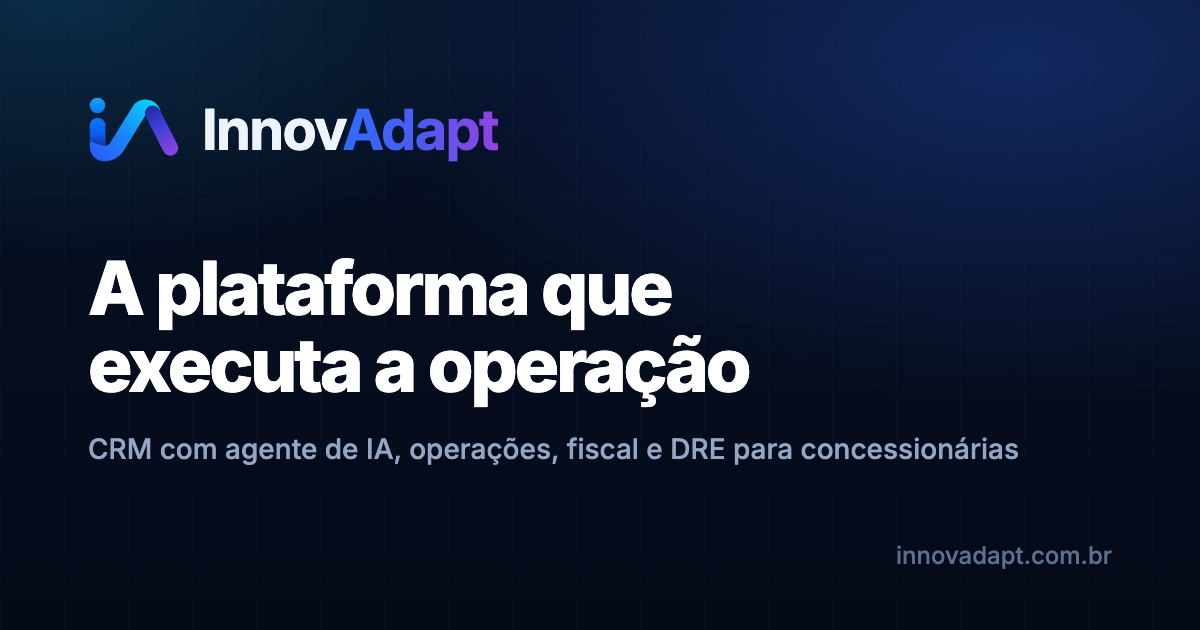
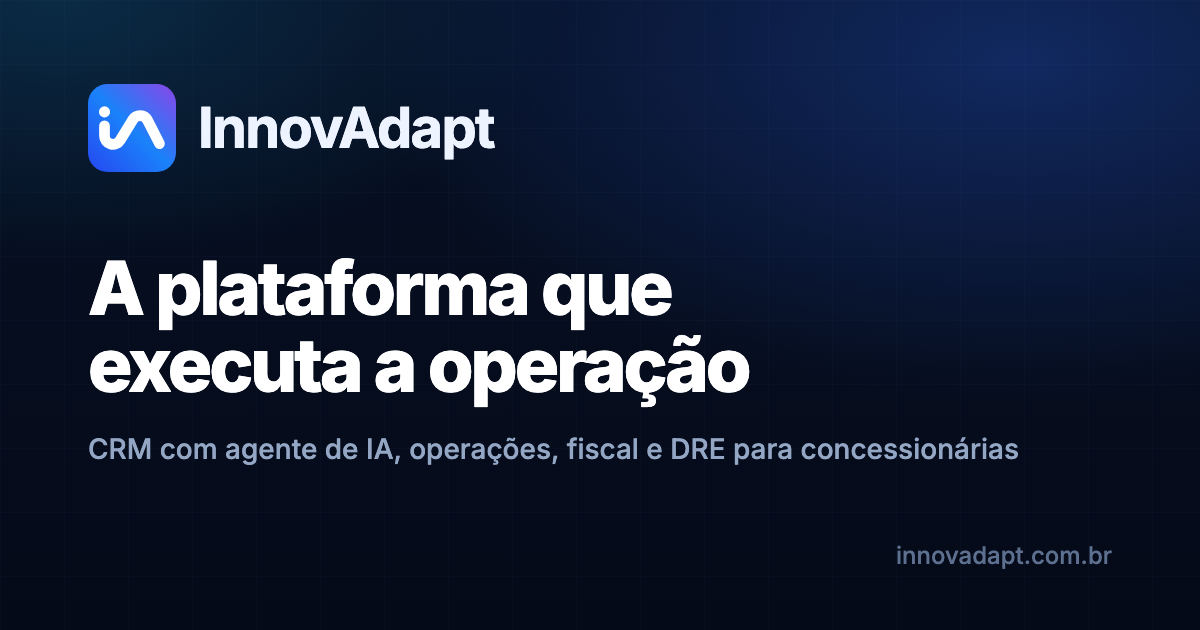
Selo iA branco sobre o degradê na aba, no topo, no rodapé e na imagem de compartilhamento
Mesmo padrão dos concorrentes (Webmotors, RD, HubSpot, Pipedrive): uma cor de
fundo e a marca em branco. É a opção C escolhida para o Instagram em 02/10. O
símbolo multicolorido sobre o fundo escuro sumia em 16 px.

Changed region(s): [[0.0617, 0.1206, 0.4317, 0.2714]]

diff --git a/components/Marca.tsx b/components/Marca.tsx
@@ -1,28 +1,37 @@
 import { useId } from "react";
 
 /**
- * O símbolo iA da InnovAdapt, desenhado em vetor. Sai do mesmo traçado do
- * favicon (app/icon.svg) e da foto do Instagram, então fica nítido em qualquer
- * tamanho. O PNG antigo trazia o slogan junto e, na altura do cabeçalho, virava
- * uma mancha ilegível.
+ * O selo da InnovAdapt: iA branco sobre o degradê da marca. É o mesmo desenho
+ * do favicon (app/icon.svg) e da foto do Instagram (opção C, escolhida em
+ * 02/10/2026). Segue o que os concorrentes fazem (Webmotors, RD, HubSpot,
+ * Pipedrive): uma cor de fundo e a marca em branco, legível até em 16 px.
+ * O símbolo multicolorido sobre o fundo escuro sumia no tamanho pequeno.
  */
-export function SimboloIA({ className = "" }: { className?: string }) {
-  const p = useId().replace(/:/g, "");
+export function SeloIA({ className = "" }: { className?: string }) {
+  const id = `selo${useId().replace(/:/g, "")}`;
   return (
-    <svg viewBox="24 -79 710 710" className={className} aria-hidden>
+    <svg viewBox="0 0 1080 1080" className={className} aria-hidden>
       <defs>
- <linearGradient id={`${p}gPonto`} x1="0" y1="0" x2="0" y2="1"><stop offset="0" stopColor="#1AA6FC"/><stop offset="1" stopColor="#0776FC"/></linearGradient>
- <linearGradient id={`${p}gHaste`} gradientUnits="userSpaceOnUse" x1="0" y1="182" x2="0" y2="410"><stop offset="0" stopColor="#0A78FF"/><stop offset=".55" stopColor="#0A5DF4"/><stop offset="1" stopColor="#1A2C96"/></linearGradient>
- <linearGradient id={`${p}gFita`} gradientUnits="userSpaceOnUse" x1="90" y1="520" x2="560" y2="60"><stop offset="0" stopColor="#2C5AF6"/><stop offset=".45" stopColor="#1A86FA"/><stop offset="1" stopColor="#05D8F9"/></linearGradient>
- <linearGradient id={`${p}gPerna`} gradientUnits="userSpaceOnUse" x1="484" y1="87" x2="700" y2="474"><stop offset="0" stopColor="#1B279C"/><stop offset=".4" stopColor="#3A42D8"/><stop offset="1" stopColor="#9641E3"/></linearGradient>
- <clipPath id={`${p}dobra`}><path d="M-100,362 L38,362 Q100,390 158,399 L158,-100 L1300,-100 L1300,1300 L-100,1300 Z"/></clipPath>
-</defs>
-<g>
- <circle cx="97" cy="87" r="60" fill={`url(#${p}gPonto)`}/>
- <path d="M38,242 A60,60 0 0 1 158,242 L158,402 Q100,393 38,366 Z" fill={`url(#${p}gHaste)`}/>
- <path d="M98,330 L98,400 C98,485 212.0,462.8 244.5,410.0 L418.6,127.6 A58,58 0 0 1 519.7,131.7 L523.9,146.9" fill="none" stroke={`url(#${p}gFita)`} strokeWidth="120" strokeLinecap="round" strokeLinejoin="round" clipPath={`url(#${p}dobra)`}/>
- <line x1="523.9" y1="146.9" x2="660.1" y2="414.2" stroke={`url(#${p}gPerna)`} strokeWidth="120" strokeLinecap="round"/>
-</g>
+        <linearGradient id={id} x1="0" y1="1" x2="1" y2="0">
+          <stop offset="0" stopColor="#2647F0" />
+          <stop offset=".5" stopColor="#1A82FA" />
+          <stop offset="1" stopColor="#8B45E6" />
+        </linearGradient>
+      </defs>
+      <rect width="1080" height="1080" rx="240" fill={`url(#${id})`} />
+      <g transform="translate(540 540) scale(1.12) translate(-540 -540)">
+        <g transform="translate(-49.8,83.0) scale(0.9616)">
+          <circle cx="300" cy="291.6" r="63.4" fill="#fff" />
+          <path
+            d="M300,450 L300,565.4 A96,96 0 0 0 477.7,615.8 L623.3,379.6 A96,96 0 0 1 790.5,386.4 L926.7,653.7"
+            fill="none"
+            stroke="#fff"
+            strokeWidth="122"
+            strokeLinecap="round"
+            strokeLinejoin="round"
+          />
+        </g>
+      </g>
     </svg>
   );
 }
@@ -30,12 +39,9 @@ export function SimboloIA({ className = "" }: { className?: string }) {
 export default function Marca({ className = "" }: { className?: string }) {
   return (
     <span className={`inline-flex items-center gap-2.5 ${className}`}>
-      <SimboloIA className="h-[1.9em] w-[1.9em] shrink-0" />
+      <SeloIA className="h-[1.85em] w-[1.85em] shrink-0" />
       <span className="text-[1.15em] font-bold leading-none tracking-[-0.03em] text-white">
-        Innov
-        <span className="bg-gradient-to-r from-[#2f6bff] via-[#4b5cf0] to-[#9641e3] bg-clip-text text-transparent">
-          Adapt
-        </span>
+        InnovAdapt
       </span>
     </span>
   );
